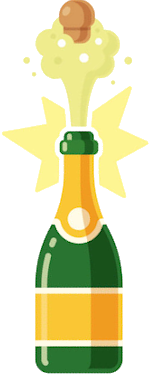
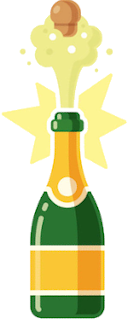
Added graphics, moving cloud, animated champagne bottle.

diff --git a/ProgressGame.py b/ProgressGame.py
@@ -2,14 +2,12 @@
 Load a tiled map file and run around with multiple players
 
 Author: Fred Derks
-Version: 25-11-2019
+Version: 12-12-2019
 Artwork from: http://kenney.nl
 Tiled available from: http://www.mapeditor.org/
 """
 
-# TODO 13-12-2019: Champage fles open, achtergrond wolkjes, voorgrond berg opfleuren
-# http://arcade.academy/examples/sprite_collect_coins_move_down.html#sprite-collect-coins-move-down
-
+import random
 import arcade
 import os
 import pandas as pd
@@ -19,13 +17,14 @@ SCREEN_WIDTH = 1600
 SCREEN_HEIGHT = 900
 SCREEN_TITLE = "Progress Game"
 SPRITE_PIXEL_SIZE = 64
+CLOUD_COUNT = 12
 GRID_PIXEL_SIZE = int(SPRITE_PIXEL_SIZE * SPRITE_SCALING)
 BEBAS = 'res\\BebasNeue Bold.otf'
 
 # How many pixels to keep as a minimum margin between the character
 # and the edge of the screen.
-VIEWPORT_MARGIN_TOP = 60
-VIEWPORT_MARGIN_BOTTOM = 60
+VIEWPORT_MARGIN_TOP = 270
+VIEWPORT_MARGIN_BOTTOM = 120
 VIEWPORT_RIGHT_MARGIN = 270
 VIEWPORT_LEFT_MARGIN = 270
 
@@ -33,12 +32,57 @@ VIEWPORT_LEFT_MARGIN = 270
 MOVEMENT_SPEED = 5
 JUMP_SPEED = 17
 GRAVITY = 1.8
+ANGLE_SPEED = 5
 
 # Positions
 POSITION_DATA = pd.read_csv('res\position_data.csv')
 CURRENT_PLAYER = int(0)
 CHOSEN_PLAYER = int(0)
+CURRENT_ANGLE = 0
+CURRENT_RIGHT = True
+ANIMATION_COUNTER = 0
+ANIMATION_DURATION = 5
 
+
+class Cloud(arcade.Sprite):
+    """
+    This class represents the clouds on our screen. It is a child class of
+    the arcade library's "Sprite" class.
+    """
+
+    def reset_pos(self):
+
+        # Reset the cloud to a random spot above the screen
+        self.center_y = random.randrange(SCREEN_HEIGHT - 200, SCREEN_HEIGHT + 300)
+        self.center_x = random.randrange(-300, -200)
+
+    def update(self):
+
+        # Move the cloud
+        self.center_x += 0.3
+
+        # See if the cloud has fallen off the bottom of the screen.
+        # If so, reset it.
+        if self.left > SCREEN_WIDTH + 300:
+            self.reset_pos()
+
+
+class Champagne(arcade.Sprite):
+    """
+    This class represents the clouds on our screen. It is a child class of
+    the arcade library's "Sprite" class.
+    """
+
+    def update(self):
+        # Rotate the bottle
+        global CURRENT_ANGLE
+
+        if CURRENT_RIGHT:
+            self.angle += ANGLE_SPEED
+            CURRENT_ANGLE += 1
+        else:
+            self.angle -= ANGLE_SPEED
+            CURRENT_ANGLE -= 1
 
 class MyGame(arcade.Window):
     """ Main application class. """
@@ -56,13 +100,16 @@ class MyGame(arcade.Window):
         file_path = os.path.dirname(os.path.abspath(__file__))
         os.chdir(file_path)
 
-        # Sprite lists
+        # # Sprite lists
         self.wall_list = None
         self.player_list = None
+        self.decorations_list = None
         self.champagne_list = None
         self.background_list = None
         self.text_list = None
         self.char_list = None
+        self.cloud_sprite_list = None
+        self.champagne_sprite_list = None
 
         # Set up the player
         self.score = 0
@@ -78,6 +125,7 @@ class MyGame(arcade.Window):
         self.last_time = None
         self.frame_count = 0
         self.fps_message = None
+        self.background = arcade.load_texture("res/mount_bg2.jpg")
 
         # Set up other logic
         self.theme = None
@@ -88,8 +136,13 @@ class MyGame(arcade.Window):
 
         # Sprite lists
         self.player_list = arcade.SpriteList()
+        self.decorations_list = arcade.SpriteList()
         self.champagne_list = arcade.SpriteList()
         self.text_list = arcade.SpriteList()
+        self.background_list = arcade.SpriteList()
+        self.cloud_sprite_list = arcade.SpriteList()
+        self.champagne_sprite_list = arcade.SpriteList()
+
 
         # Set up the players
         self.char_list = [
@@ -98,8 +151,36 @@ class MyGame(arcade.Window):
             arcade.Sprite("res/alexandra.png", SPRITE_SCALING),
             arcade.Sprite("res/bart.png", SPRITE_SCALING),
             arcade.Sprite("res/jessica.png", SPRITE_SCALING),
-            arcade.Sprite("res/evelien.png", SPRITE_SCALING)
+            # arcade.Sprite("res/evelien.png", SPRITE_SCALING)
         ]
+
+        # Create the clouds
+        for i in range(CLOUD_COUNT):
+
+            # Create the cloud instance
+            cloud = Cloud("res/cloud.png", SPRITE_SCALING)
+            doublecloud = Cloud("res/doublecloud.png", SPRITE_SCALING)
+
+            # Position the cloud
+            cloud.center_x = random.randrange(-200, 2200)
+            cloud.center_y = random.randrange(SCREEN_HEIGHT - 200, SCREEN_HEIGHT + 300)
+
+            doublecloud.center_x = random.randrange(-200, 2200)
+            doublecloud.center_y = random.randrange(SCREEN_HEIGHT - 200, SCREEN_HEIGHT + 300)
+
+            # Add the cloud to the lists
+            self.cloud_sprite_list.append(cloud)
+            self.cloud_sprite_list.append(doublecloud)
+
+        # Create the Champagne
+        champagne = Champagne("res/champagne-closed.png", SPRITE_SCALING)
+
+        # Position the champagne bottle
+        champagne.center_x = 1471
+        champagne.bottom = 704
+
+        # Add the champagne bottle to the lists
+        self.champagne_sprite_list.append(champagne)
 
         # Read in the tiled map
         my_map = arcade.read_tiled_map('mount.tmx', SPRITE_SCALING)
@@ -113,6 +194,9 @@ class MyGame(arcade.Window):
 
         # --- Background ---
         self.background_list = arcade.generate_sprites(my_map, 'Background', SPRITE_SCALING)
+
+        # --- Decorations ---
+        self.decorations_list = arcade.generate_sprites(my_map, 'Decorations', SPRITE_SCALING)
 
         # --- Platforms ---
         self.wall_list = arcade.generate_sprites(my_map, 'Platforms', SPRITE_SCALING)
@@ -149,8 +233,8 @@ class MyGame(arcade.Window):
 
         # Set the view port boundaries
         # These numbers set where we have 'scrolled' to.
-        self.view_left = 0
-        self.view_bottom = 0
+        # self.view_left = 0
+        # self.view_bottom = 0
 
         self.game_over = False
 
@@ -163,13 +247,17 @@ class MyGame(arcade.Window):
 
         # This command has to happen before we start drawing
         arcade.start_render()
-        # super().on_draw()
+        arcade.draw_texture_rectangle((SCREEN_WIDTH // 2) + self.view_left, (SCREEN_HEIGHT // 2) + self.view_bottom,
+                                      SCREEN_WIDTH, SCREEN_HEIGHT, self.background)
 
         # Draw all the sprites.
-        self.wall_list.draw()
         self.background_list.draw()
+        self.wall_list.draw()
+        self.decorations_list.draw()
         self.text_list.draw()
         self.player_list.draw()
+        self.cloud_sprite_list.draw()
+        self.champagne_sprite_list.draw()
 
         # Get viewport dimensions
         screen_width, screen_height = self.get_size()
@@ -187,14 +275,27 @@ class MyGame(arcade.Window):
                          '2. Heleen\n\n'
                          '3. Alexandra\n\n'
                          '4. Bart\n\n'
-                         '5. Jessica\n\n'
-                         '6. Evelien',
+                         '5. Jessica',
                          screen_width // 8 + 800, screen_height // 8,
                          arcade.color.BLACK, 16, align="left",
                          font_name=BEBAS)
 
         if self.top_level:
-            self.champagne_list.draw()
+            global CURRENT_ANGLE
+            global CURRENT_RIGHT
+            global ANIMATION_COUNTER
+
+            if ANIMATION_COUNTER < ANIMATION_DURATION:
+                self.champagne_sprite_list.update()
+            elif ANIMATION_COUNTER > 35:
+                self.champagne_list.draw()
+
+            if CURRENT_ANGLE == 10:
+                CURRENT_RIGHT = False
+            elif CURRENT_ANGLE == -10:
+                CURRENT_RIGHT = True
+            elif CURRENT_ANGLE == 0:
+                ANIMATION_COUNTER += 1
 
         if self.game_over:
             arcade.draw_text("\nGame Over", self.view_left + 600, self.view_bottom + 600,
@@ -240,10 +341,10 @@ class MyGame(arcade.Window):
             CHOSEN_PLAYER = 4
             self.setup()
             self.jump_on_choose()
-        elif key in (arcade.key.KEY_6, arcade.key.NUM_6):
-            CHOSEN_PLAYER = 5
-            self.setup()
-            self.jump_on_choose()
+        # elif key in (arcade.key.KEY_6, arcade.key.NUM_6):
+        #     CHOSEN_PLAYER = 5
+        #     self.setup()
+        #     self.jump_on_choose()
 
     def on_key_release(self, key, modifiers):
         """
@@ -255,6 +356,8 @@ class MyGame(arcade.Window):
     def on_update(self, delta_time):
         """ Movement and game logic """
 
+        self.cloud_sprite_list.update()
+
         # Game over when sprite reaches end of map
         if self.player_sprite.right >= self.end_of_map or self.player_sprite.left <= -100:
             self.game_over = True
@@ -265,6 +368,7 @@ class MyGame(arcade.Window):
             self.physics_engine.update()
 
         # Draw Champagne Bottle if player is on top level
+        global ANIMATION_COUNTER
         if self.player_sprite.bottom > 600:                 # PLEASE FOR THE LOVE OF GOD WHEN YOU HAVE SOME SPARE TIME
             sprites_top_level = False                       # REWRITE THIS SEGMENT OF CODE
             sprite_positions = []
@@ -276,6 +380,7 @@ class MyGame(arcade.Window):
                 self.top_level = True
         else:
             self.top_level = False
+            ANIMATION_COUNTER = 0
 
         # --- Manage Scrolling ---
 
@@ -318,7 +423,7 @@ class MyGame(arcade.Window):
 
     def choose_player(self, current, chosen):
         """
-        Called when player is chosen [1 to 6]
+        Called when player is chosen [1 to 5]
         It is called at setup on initialisation
         And subsequently from on_key_release
         """
@@ -335,6 +440,10 @@ class MyGame(arcade.Window):
     def jump_on_choose(self):
         if self.physics_engine.can_jump():
             self.player_sprite.change_y = JUMP_SPEED / 2
+
+    # def rotate_champagne(self):
+    #     self.champagne_sprite_list.change_angle = ANGLE_SPEED
+    #     self.champagne_sprite_list.update()
 
 
 def main():
